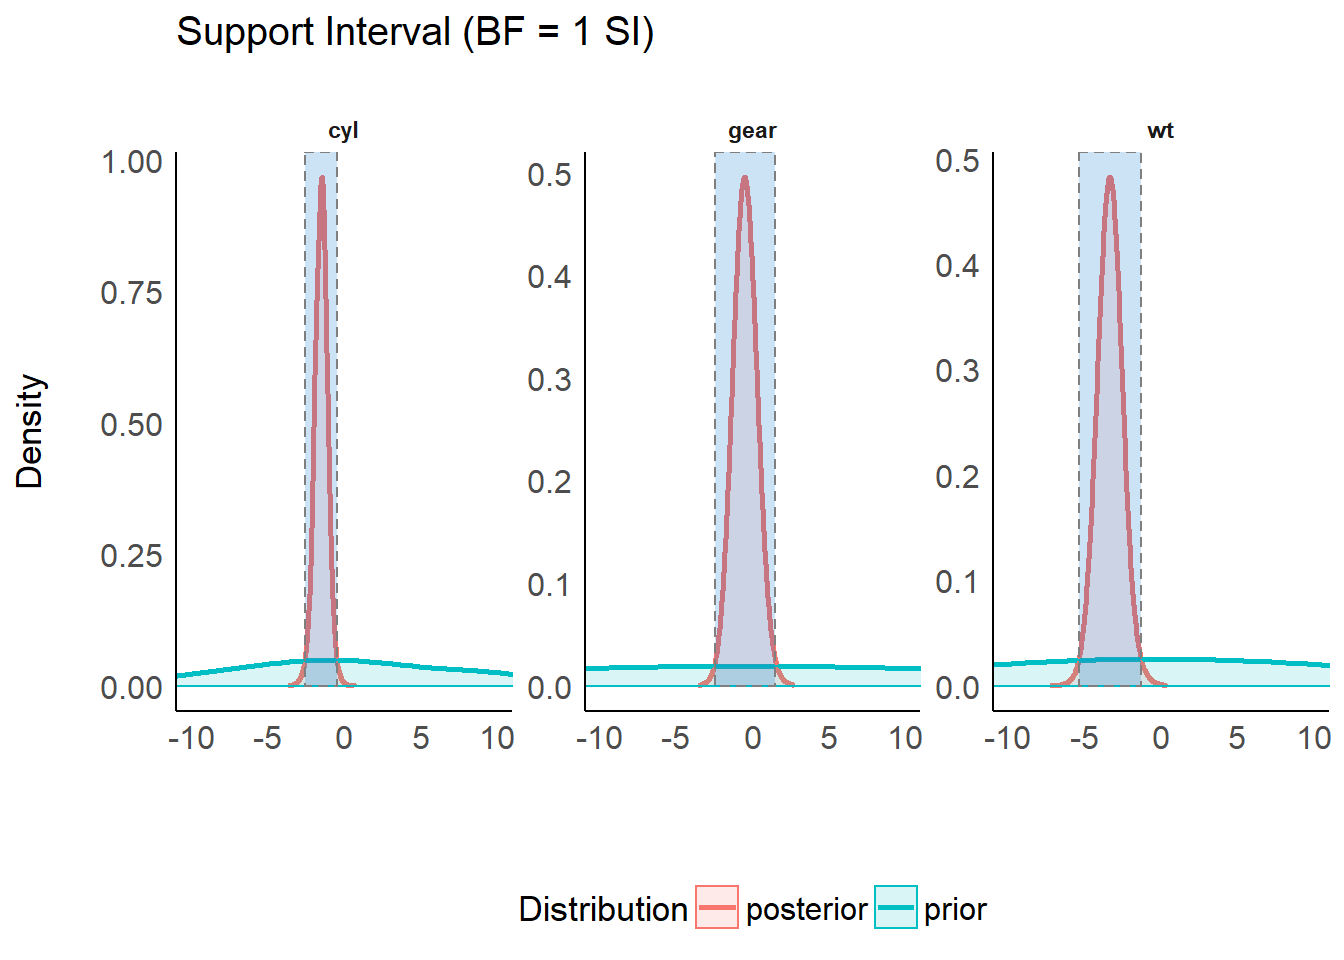
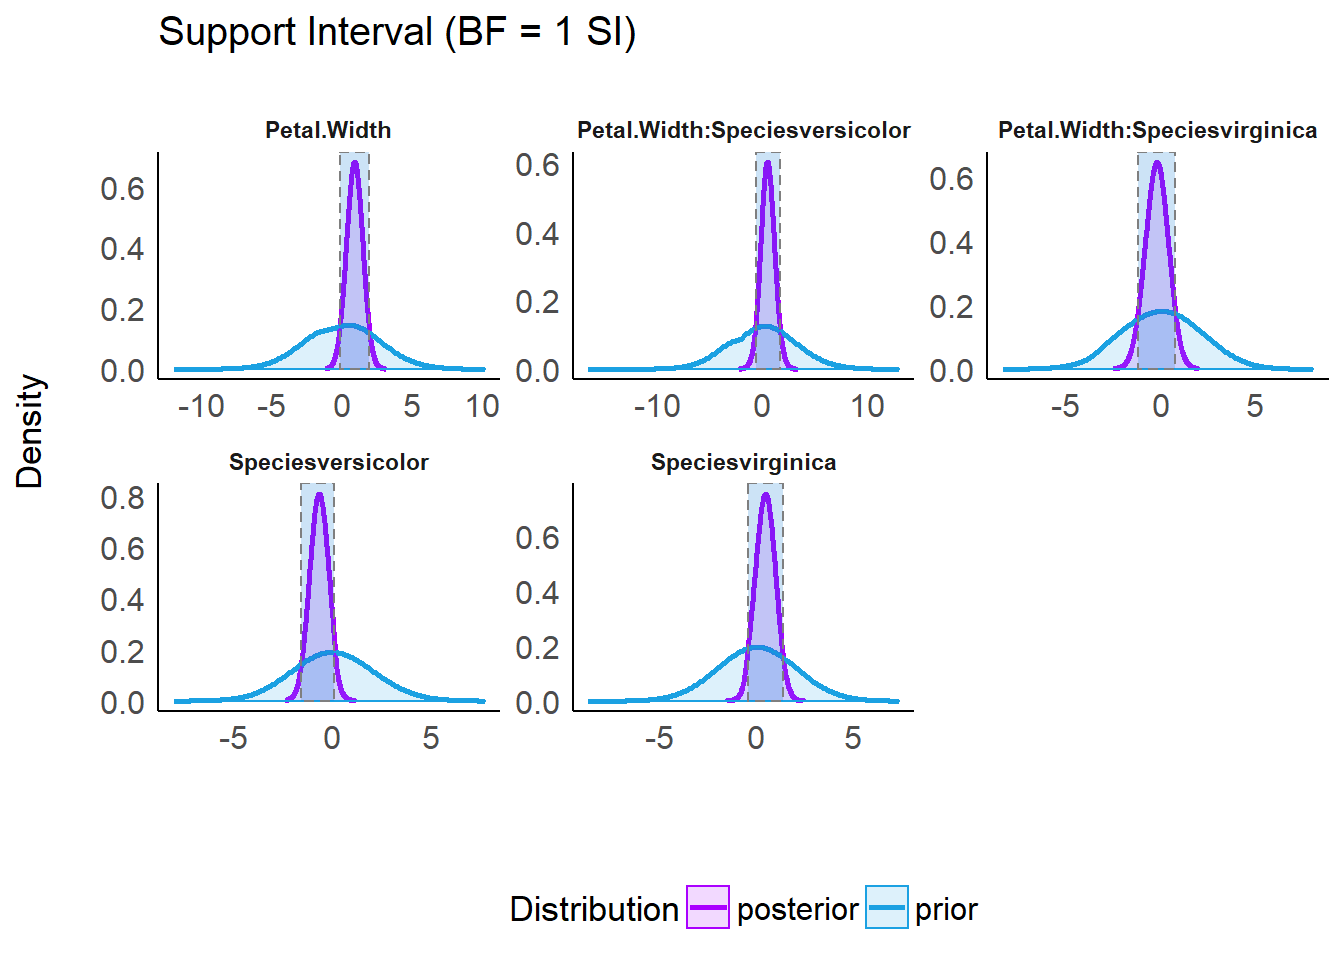
update website

diff --git a/docs/articles/bayestestR.html b/docs/articles/bayestestR.html
@@ -681,18 +681,22 @@
 <div id="support-interval" class="section level3">
 <h3 class="hasAnchor">
 <a href="#support-interval" class="anchor"></a>Support Interval</h3>
-<div class="sourceCode" id="cb30"><pre class="sourceCode r"><code class="sourceCode r"><a class="sourceLine" id="cb30-1" title="1">model &lt;-<span class="st"> </span><span class="kw">stan_glm</span>(mpg <span class="op">~</span><span class="st"> </span>gear <span class="op">+</span><span class="st"> </span>wt <span class="op">+</span><span class="st"> </span>cyl, <span class="dt">data =</span> mtcars, <span class="dt">refresh =</span> <span class="dv">0</span>)</a>
-<a class="sourceLine" id="cb30-2" title="2">result &lt;-<span class="st"> </span><span class="kw">si</span>(model)</a>
-<a class="sourceLine" id="cb30-3" title="3">result</a>
-<a class="sourceLine" id="cb30-4" title="4"><span class="co">#&gt; # Support Interval</span></a>
-<a class="sourceLine" id="cb30-5" title="5"><span class="co">#&gt; </span></a>
-<a class="sourceLine" id="cb30-6" title="6"><span class="co">#&gt;    Parameter      BF = 1 SI</span></a>
-<a class="sourceLine" id="cb30-7" title="7"><span class="co">#&gt;  (Intercept) [30.77, 53.46]</span></a>
-<a class="sourceLine" id="cb30-8" title="8"><span class="co">#&gt;         gear [-2.49,  1.49]</span></a>
-<a class="sourceLine" id="cb30-9" title="9"><span class="co">#&gt;           wt [-5.38, -1.34]</span></a>
-<a class="sourceLine" id="cb30-10" title="10"><span class="co">#&gt;          cyl [-2.58, -0.50]</span></a>
-<a class="sourceLine" id="cb30-11" title="11"></a>
-<a class="sourceLine" id="cb30-12" title="12"><span class="kw"><a href="https://rdrr.io/r/graphics/plot.html">plot</a></span>(result) <span class="op">+</span><span class="st"> </span>ggplot2<span class="op">::</span><span class="kw"><a href="https://ggplot2.tidyverse.org/reference/coord_cartesian.html">coord_cartesian</a></span>(<span class="dt">xlim =</span> <span class="kw"><a href="https://rdrr.io/r/base/c.html">c</a></span>(<span class="op">-</span><span class="dv">10</span>, <span class="dv">10</span>))</a></code></pre></div>
+<p>Plotting the result of a call to <code>si()</code> results in a plot presenting the prior and posterior distributions for each parameter (note that by default <code>show_intercept = FALSE</code>). The support interval will be denoted by a shaded border.</p>
+<div class="sourceCode" id="cb30"><pre class="sourceCode r"><code class="sourceCode r"><a class="sourceLine" id="cb30-1" title="1">result &lt;-<span class="st"> </span><span class="kw">si</span>(model)</a>
+<a class="sourceLine" id="cb30-2" title="2">result</a>
+<a class="sourceLine" id="cb30-3" title="3"><span class="co">#&gt; # Support Interval</span></a>
+<a class="sourceLine" id="cb30-4" title="4"><span class="co">#&gt; </span></a>
+<a class="sourceLine" id="cb30-5" title="5"><span class="co">#&gt;                      Parameter     BF = 1 SI</span></a>
+<a class="sourceLine" id="cb30-6" title="6"><span class="co">#&gt;                    (Intercept) [ 4.35, 5.24]</span></a>
+<a class="sourceLine" id="cb30-7" title="7"><span class="co">#&gt;                    Petal.Width [-0.11, 1.92]</span></a>
+<a class="sourceLine" id="cb30-8" title="8"><span class="co">#&gt;              Speciesversicolor [-1.58, 0.08]</span></a>
+<a class="sourceLine" id="cb30-9" title="9"><span class="co">#&gt;               Speciesvirginica [-0.44, 1.36]</span></a>
+<a class="sourceLine" id="cb30-10" title="10"><span class="co">#&gt;  Petal.Width:Speciesversicolor [-0.61, 1.67]</span></a>
+<a class="sourceLine" id="cb30-11" title="11"><span class="co">#&gt;   Petal.Width:Speciesvirginica [-1.22, 0.77]</span></a>
+<a class="sourceLine" id="cb30-12" title="12"></a>
+<a class="sourceLine" id="cb30-13" title="13"><span class="kw"><a href="https://rdrr.io/r/graphics/plot.html">plot</a></span>(result) <span class="op">+</span><span class="st"> </span></a>
+<a class="sourceLine" id="cb30-14" title="14"><span class="st">  </span><span class="kw"><a href="../reference/scale_color_metro.html">scale_color_metro</a></span>(<span class="dt">palette =</span> <span class="st">"ice"</span>) <span class="op">+</span></a>
+<a class="sourceLine" id="cb30-15" title="15"><span class="st">  </span><span class="kw"><a href="../reference/scale_color_metro.html">scale_fill_metro</a></span>(<span class="dt">palette =</span> <span class="st">"ice"</span>)</a></code></pre></div>
 <p><img src="bayestestR_files/figure-html/unnamed-chunk-28-1.png" width="672"></p>
 </div>
 </div>
